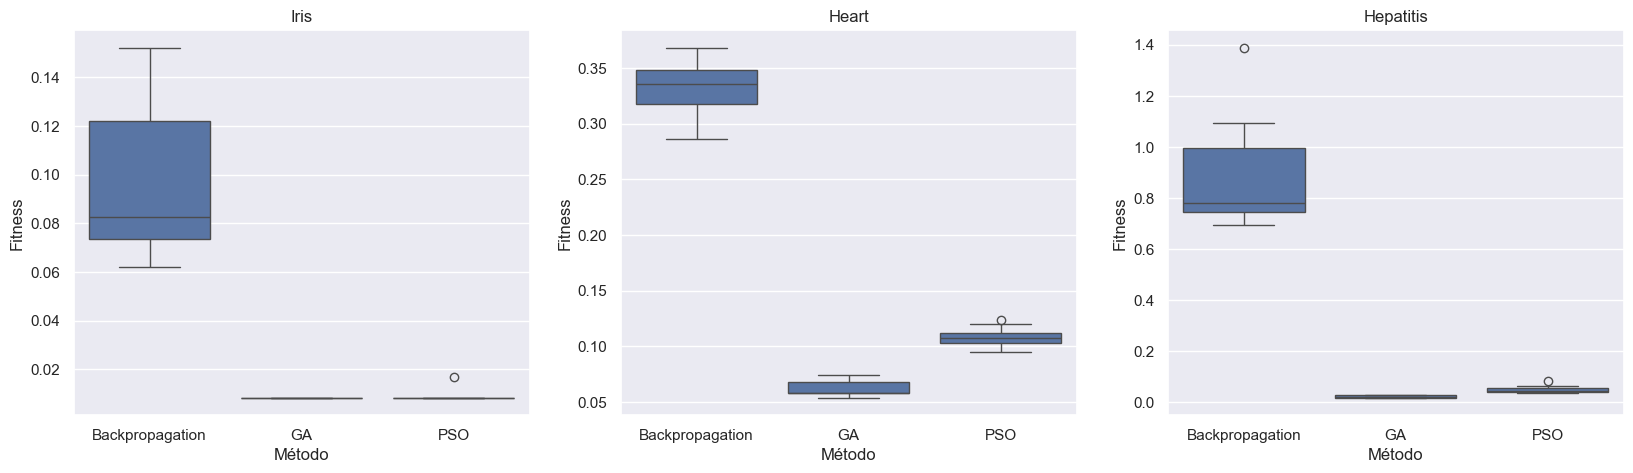
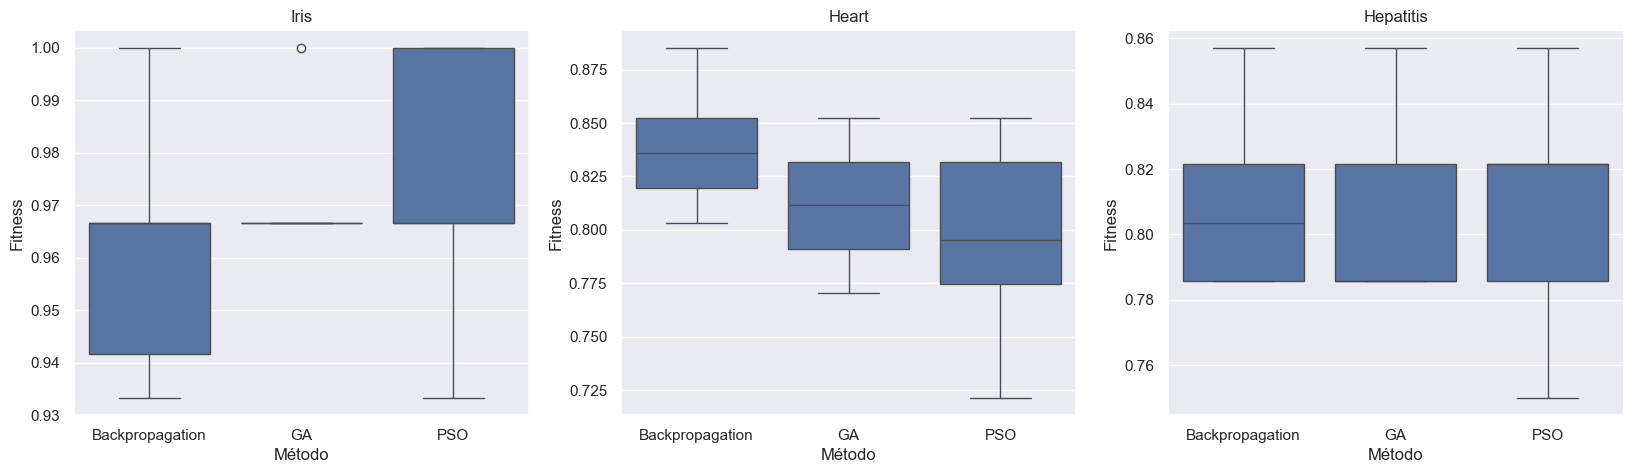
🐛 fix: remove boxplot errors

diff --git a/natural_computing_tasks/second_task/analysis/boxplots.py b/natural_computing_tasks/second_task/analysis/boxplots.py
@@ -27,15 +27,15 @@ df_heart = df[df['Dataset'] == 'heart']
 df_hepatitis = df[df['Dataset'] == 'hepatitis']
 
 sns.boxplot(x=df_iris['Method_str'],
-            y=df_iris['Best Fitness'], ax=axs[0])
+            y=df_iris['Accuracy'], ax=axs[0])
 axs[0].set(title='Iris', ylabel='Fitness', xlabel='Método')
 
 sns.boxplot(x=df_heart['Method_str'],
-            y=df_heart['Best Fitness'], ax=axs[1])
+            y=df_heart['Accuracy'], ax=axs[1])
 axs[1].set(title='Heart', ylabel='Fitness', xlabel='Método')
 
 sns.boxplot(x=df_hepatitis['Method_str'],
-            y=df_hepatitis['Best Fitness'], ax=axs[2])
+            y=df_hepatitis['Accuracy'], ax=axs[2])
 axs[2].set(title='Hepatitis', ylabel='Fitness', xlabel='Método')
 
 fig.savefig('figures/boxplots.png', bbox_inches='tight')

diff --git a/natural_computing_tasks/second_task/scripts/experiments_setup.py b/natural_computing_tasks/second_task/scripts/experiments_setup.py
@@ -28,7 +28,7 @@ heart_url = (
 
 
 PREDICTION_REGULARIZATION = 0.0
-REGRESSION_REGULARIZATION = 1e-4
+REGRESSION_REGULARIZATION = 0.0
 
 
 class NeuralNetworkArchitectures:
